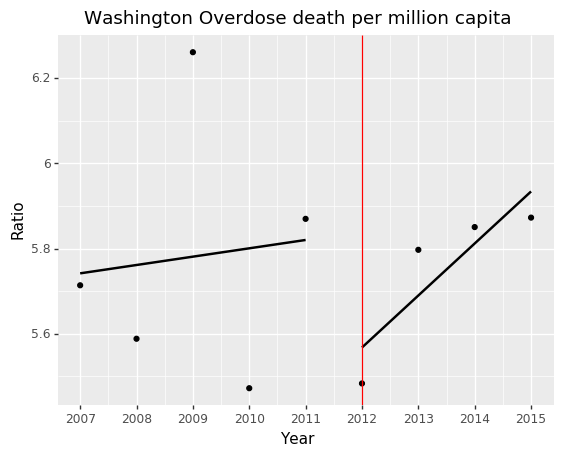
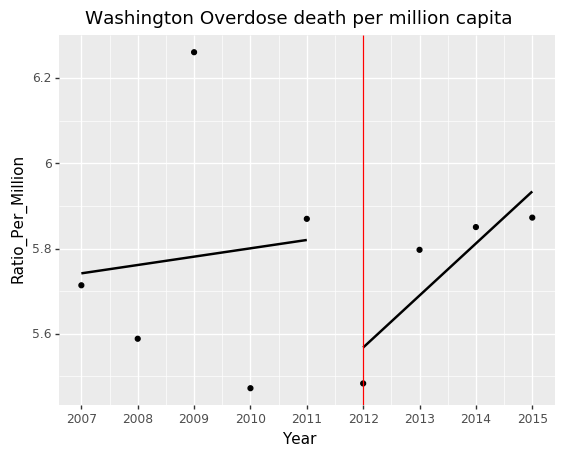
final version of plotting code in state level

diff --git a/20_intermediate_files/MortPop_plot.py b/20_intermediate_files/MortPop_plot.py
@@ -3,13 +3,16 @@ import pandas as pd
 import numpy as np
 from plotnine import *
 
+# import os
+# # Set base directory
+# os.chdir("~/estimating-impact-of-opioid-prescription-regulations-team-5")
+
 #Get a general sense of the Florida data.
 fl = pd.read_csv('FLMortPopData.csv')
 fl.head()
 
-fl['Year'].value_counts()
 # Since the policy became effective in Florida in 2010, we choose data from 2005-2009 and data from 2010-2015.
-# Create two separate dataframes containing only data before and after the policcy year.
+# Create two separate dataframes containing only data before and after the policy year.
 bef = range(2005, 2010)
 aft = range(2010, 2016)
 before_policy = fl[fl['Year'].isin(bef)]
@@ -21,23 +24,23 @@ after_policy['Year'].value_counts()
 before_policy_aggr = before_policy.groupby('Year', as_index = False).sum()
 # Add a column of death to state population ration for plotting purposes.
 # I change the ratio to deaths per million people, to make it more obvious.
-before_policy_aggr['Ratio'] = before_policy_aggr['Deaths'] * 1000000 / before_policy_aggr['State Population']
+before_policy_aggr['Ratio_Per_Million'] = before_policy_aggr['Deaths'] * 1000000 / before_policy_aggr['State Population']
 
 before_policy_aggr.head()
 after_policy_aggr = after_policy.groupby('Year', as_index = False).sum()
 # Add a column of death to state population ration for plotting purposes.
 # To make the trend more obvious, multiply the ratio by one million.
-after_policy_aggr['Ratio'] = after_policy_aggr['Deaths'] * 1000000 / after_policy_aggr['State Population']
+after_policy_aggr['Ratio_Per_Million'] = after_policy_aggr['Deaths'] * 1000000 / after_policy_aggr['State Population']
 after_policy_aggr
 
-
+# Pre-post plots of overdose death
 fl_plot = (ggplot() +
-    geom_point(before_policy_aggr, aes(x='Year', y='Ratio')) +
-    geom_point(after_policy_aggr, aes(x='Year', y = 'Ratio')) +
-    geom_smooth(before_policy_aggr, aes(x='Year', y='Ratio'), method = 'lm', level = 0) +
-    geom_smooth(after_policy_aggr, aes(x='Year', y='Ratio'), method = 'lm', level = 0) +
+    geom_point(before_policy_aggr, aes(x='Year', y='Ratio_Per_Million')) +
+    geom_point(after_policy_aggr, aes(x='Year', y = 'Ratio_Per_Million')) +
+    geom_smooth(before_policy_aggr, aes(x='Year', y='Ratio_Per_Million'), method = 'lm', level = 0) +
+    geom_smooth(after_policy_aggr, aes(x='Year', y='Ratio_Per_Million'), method = 'lm', level = 0) +
     scale_x_continuous(breaks = range(2005, 2016)) +
-    ggtitle("Florida Overdose death per million capita") +
+    ggtitle("Overdose Deaths in Florida per Million Capita") +
     geom_vline(xintercept=2010, colour="red"))
 print(fl_plot)
 fl_plot.save("fl_Mort_Pop.png")
@@ -62,21 +65,21 @@ wa_after_policy['Year'].value_counts()
 wa_before_policy_aggr = wa_before_policy.groupby('Year', as_index = False).sum()
 # Add a column of death to state population ration for plotting purposes.
 # I change the ratio to deaths per million people, to make it more obvious.
-wa_before_policy_aggr['Ratio'] = wa_before_policy_aggr['Deaths'] * 1000000 / wa_before_policy_aggr['State Population']
+wa_before_policy_aggr['Ratio_Per_Million'] = wa_before_policy_aggr['Deaths'] * 1000000 / wa_before_policy_aggr['State Population']
 
 wa_before_policy_aggr.head()
 wa_after_policy_aggr = wa_after_policy.groupby('Year', as_index = False).sum()
 # Add a column of death to state population ration for plotting purposes.
-wa_after_policy_aggr['Ratio'] = wa_after_policy_aggr['Deaths'] * 1000000 / wa_after_policy_aggr['State Population']
+wa_after_policy_aggr['Ratio_Per_Million'] = wa_after_policy_aggr['Deaths'] * 1000000 / wa_after_policy_aggr['State Population']
 wa_after_policy_aggr
 
 
 
 wa_plot = (ggplot() +
-    geom_point(wa_before_policy_aggr, aes(x='Year', y='Ratio')) +
-    geom_point(wa_after_policy_aggr, aes(x='Year', y = 'Ratio')) +
-    geom_smooth(wa_before_policy_aggr, aes(x='Year', y='Ratio'), method = 'lm', level = 0) +
-    geom_smooth(wa_after_policy_aggr, aes(x='Year', y='Ratio'), method = 'lm', level = 0) +
+    geom_point(wa_before_policy_aggr, aes(x='Year', y='Ratio_Per_Million')) +
+    geom_point(wa_after_policy_aggr, aes(x='Year', y = 'Ratio_Per_Million')) +
+    geom_smooth(wa_before_policy_aggr, aes(x='Year', y='Ratio_Per_Million'), method = 'lm', level = 0) +
+    geom_smooth(wa_after_policy_aggr, aes(x='Year', y='Ratio_Per_Million'), method = 'lm', level = 0) +
     scale_x_continuous(breaks = range(2007, 2018)) +
     ggtitle("Washington Overdose death per million capita") +
     geom_vline(xintercept=2012, colour="red"))
@@ -104,21 +107,21 @@ tx_after_policy['Year'].value_counts()
 tx_before_policy_aggr = tx_before_policy.groupby('Year', as_index = False).sum()
 # Add a column of death to state population ration for plotting purposes.
 # I change the ratio to deaths per million people, to make it more obvious.
-tx_before_policy_aggr['Ratio'] = tx_before_policy_aggr['Deaths'] * 1000000 / tx_before_policy_aggr['State Population']
+tx_before_policy_aggr['Ratio_Per_Million'] = tx_before_policy_aggr['Deaths'] * 1000000 / tx_before_policy_aggr['State Population']
 
 tx_before_policy_aggr.head()
 tx_after_policy_aggr = tx_after_policy.groupby('Year', as_index = False).sum()
 # Add a column of death to state population ration for plotting purposes.
-tx_after_policy_aggr['Ratio'] = tx_after_policy_aggr['Deaths'] * 1000000 / tx_after_policy_aggr['State Population']
+tx_after_policy_aggr['Ratio_Per_Million'] = tx_after_policy_aggr['Deaths'] * 1000000 / tx_after_policy_aggr['State Population']
 tx_after_policy_aggr
 
 
 
 tx_plot = (ggplot() +
-    geom_point(tx_before_policy_aggr, aes(x='Year', y='Ratio')) +
-    geom_point(tx_after_policy_aggr, aes(x='Year', y = 'Ratio')) +
-    geom_smooth(tx_before_policy_aggr, aes(x='Year', y='Ratio'), method = 'lm', level = 0) +
-    geom_smooth(tx_after_policy_aggr, aes(x='Year', y='Ratio'), method = 'lm', level = 0) +
+    geom_point(tx_before_policy_aggr, aes(x='Year', y='Ratio_Per_Million')) +
+    geom_point(tx_after_policy_aggr, aes(x='Year', y = 'Ratio_Per_Million')) +
+    geom_smooth(tx_before_policy_aggr, aes(x='Year', y='Ratio_Per_Million'), method = 'lm', level = 0) +
+    geom_smooth(tx_after_policy_aggr, aes(x='Year', y='Ratio_Per_Million'), method = 'lm', level = 0) +
     scale_x_continuous(breaks = range(2003, 2012)) +
     ggtitle("Texas Overdose death per million capita") +
     geom_vline(xintercept=2007, colour="red") )

diff --git a/20_intermediate_files/DrugPop_plot.py b/20_intermediate_files/DrugPop_plot.py
@@ -3,6 +3,10 @@ import pandas as pd
 import numpy as np
 from plotnine import *
 
+# import os
+# # Set base directory
+# os.chdir("~/estimating-impact-of-opioid-prescription-regulations-team-5")
+
 # Get a general sense of the Florida data.
 fl = pd.read_csv('FLOpioidData.csv')
 fl.sample(10)
@@ -12,7 +16,6 @@ fl['TRANSACTION_YEAR'].value_counts()
 # Create a new column filled with int value 1,
 # so the sum of this column represents
 # total number of transaction after aggregation.
-fl['tocount'] = 1
 fl.head()
 
 # Get the total transaction numbers for each individual year.
@@ -24,17 +27,19 @@ fl_aggr
 fl_aggr['Drug_Per_Capita'] = fl_aggr['BUYER_MME'] / fl_aggr['State Population']
 fl_aggr
 # To make trend more obvious, try multiply Drug_Per_Capita by 10.
-fl_aggr['Drug_Per_Capita'] = fl_aggr['Drug_Per_Capita'] * 10
+fl_aggr['10X_Drug_Per_Capita'] = fl_aggr['Drug_Per_Capita'] * 10
 fl_aggr
 
+# Create range of years before (2006-2009) and
+# after (2010-2012) the policy change.
 bef = range(2006, 2010)
 aft = range(2010, 2013)
 before_policy = fl_aggr[fl_aggr['TRANSACTION_YEAR'].isin(bef)]
 after_policy = fl_aggr[fl_aggr['TRANSACTION_YEAR'].isin(aft)]
 
 fl_plot = (ggplot() +
-    geom_line(before_policy, aes(x='TRANSACTION_YEAR', y='Drug_Per_Capita')) +
-    geom_line(after_policy, aes(x='TRANSACTION_YEAR', y='Drug_Per_Capita')) +
+    geom_line(before_policy, aes(x='TRANSACTION_YEAR', y='10X_Drug_Per_Capita')) +
+    geom_line(after_policy, aes(x='TRANSACTION_YEAR', y='10X_Drug_Per_Capita')) +
     scale_x_continuous(breaks = range(2005, 2013)) +
     ggtitle("Florida Drug Dosage Per Capita") +
     geom_vline(xintercept=2010, colour="red"))
